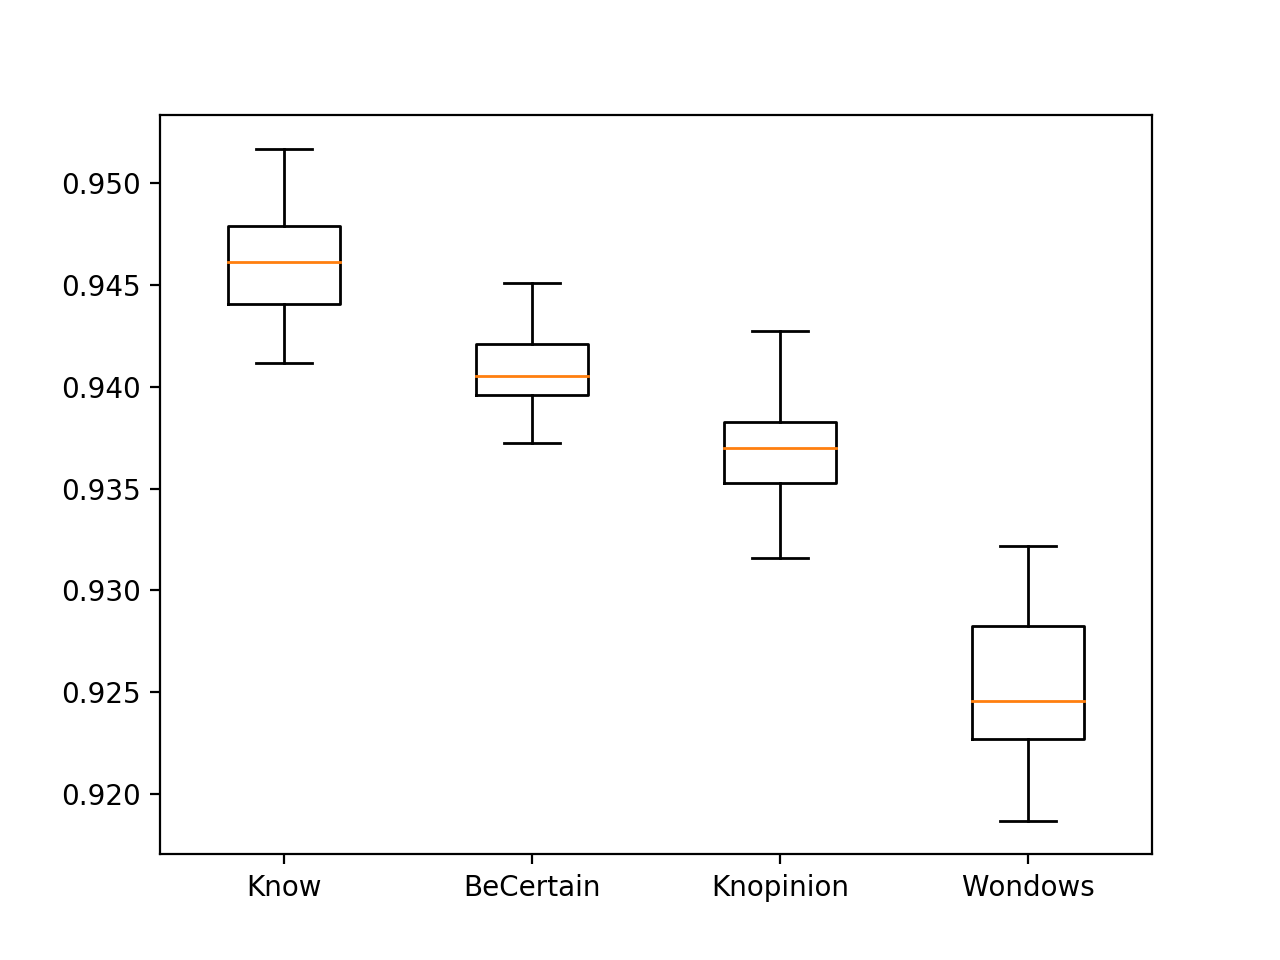
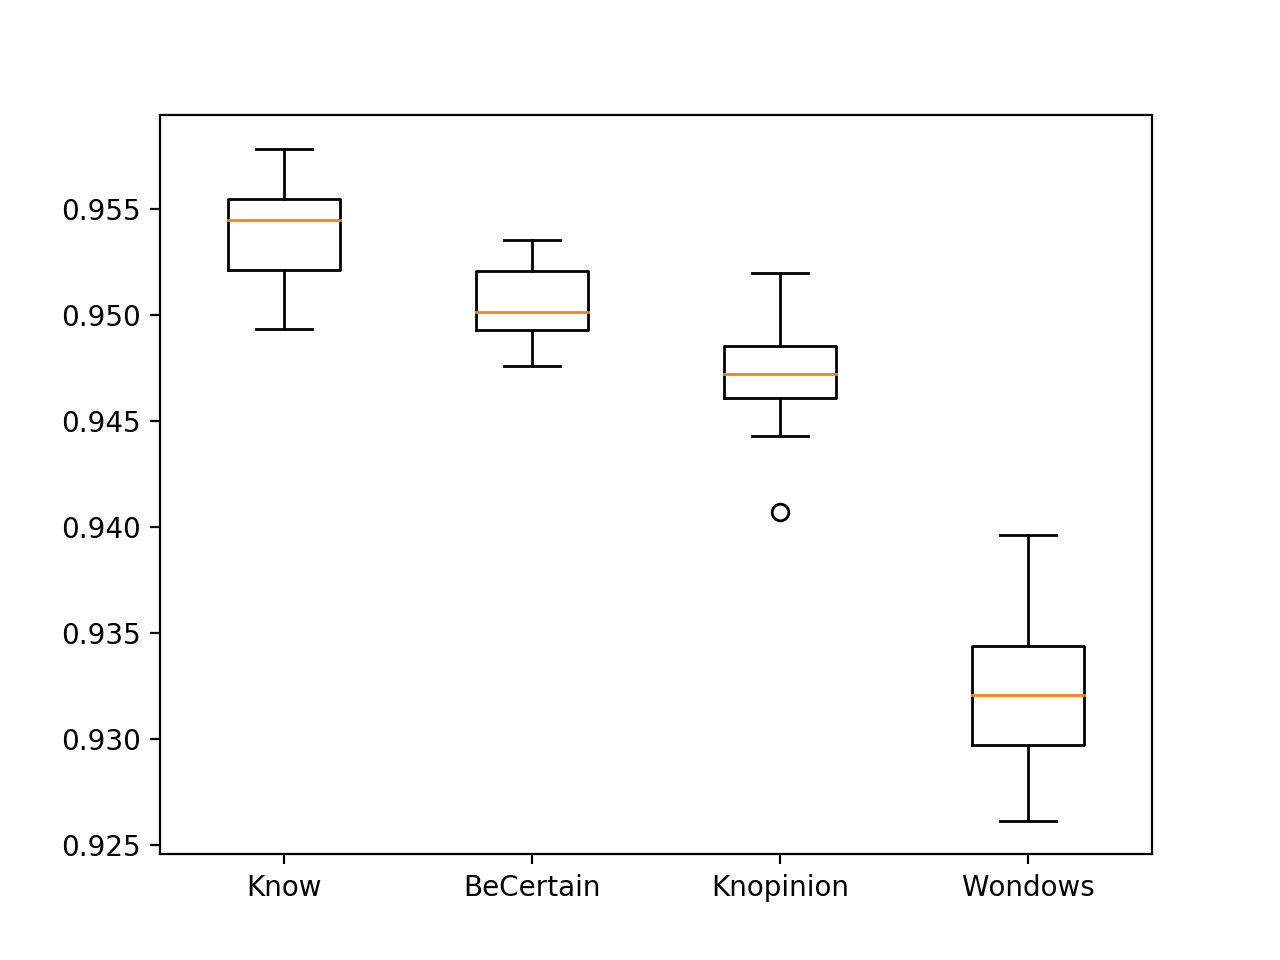
reduced final_n in analysis

diff --git a/analysis.py b/analysis.py
@@ -47,7 +47,7 @@ def experiment_analysis(path, verbs, trials=range(30), plots=True):
     convergence_points = get_convergence_points(data, verbs, threshold)
     # TODO: no convergence points for this experiment? just final?
     # TODO: mean over last N=20 training steps?
-    final_n = 150
+    final_n = 50
     final_points = {verb: [(sum(data[trial][verb.__name__ +
                                             '_accuracy'].values[-final_n:])
                             / final_n)
